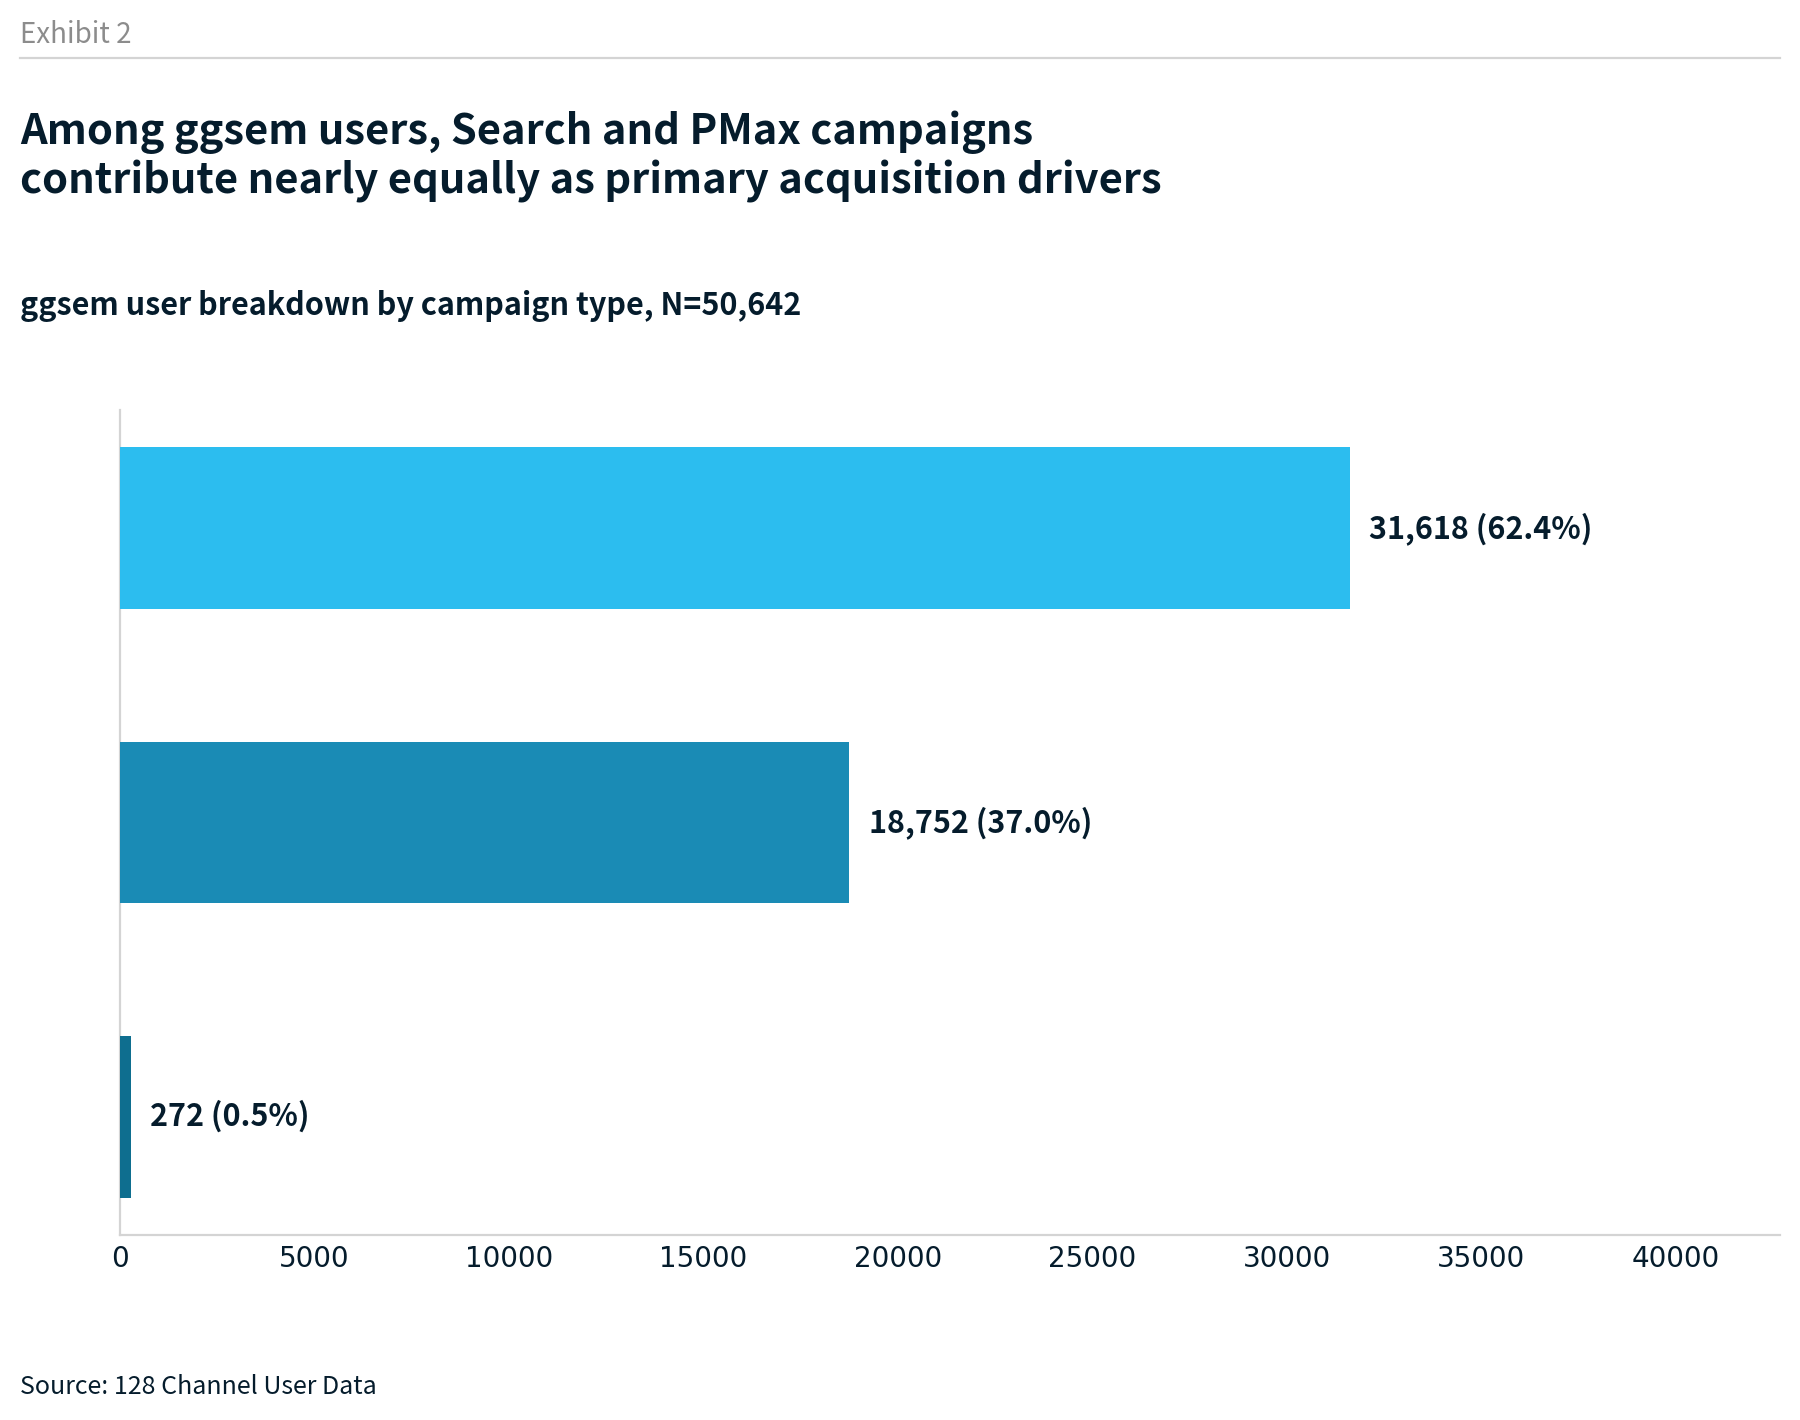
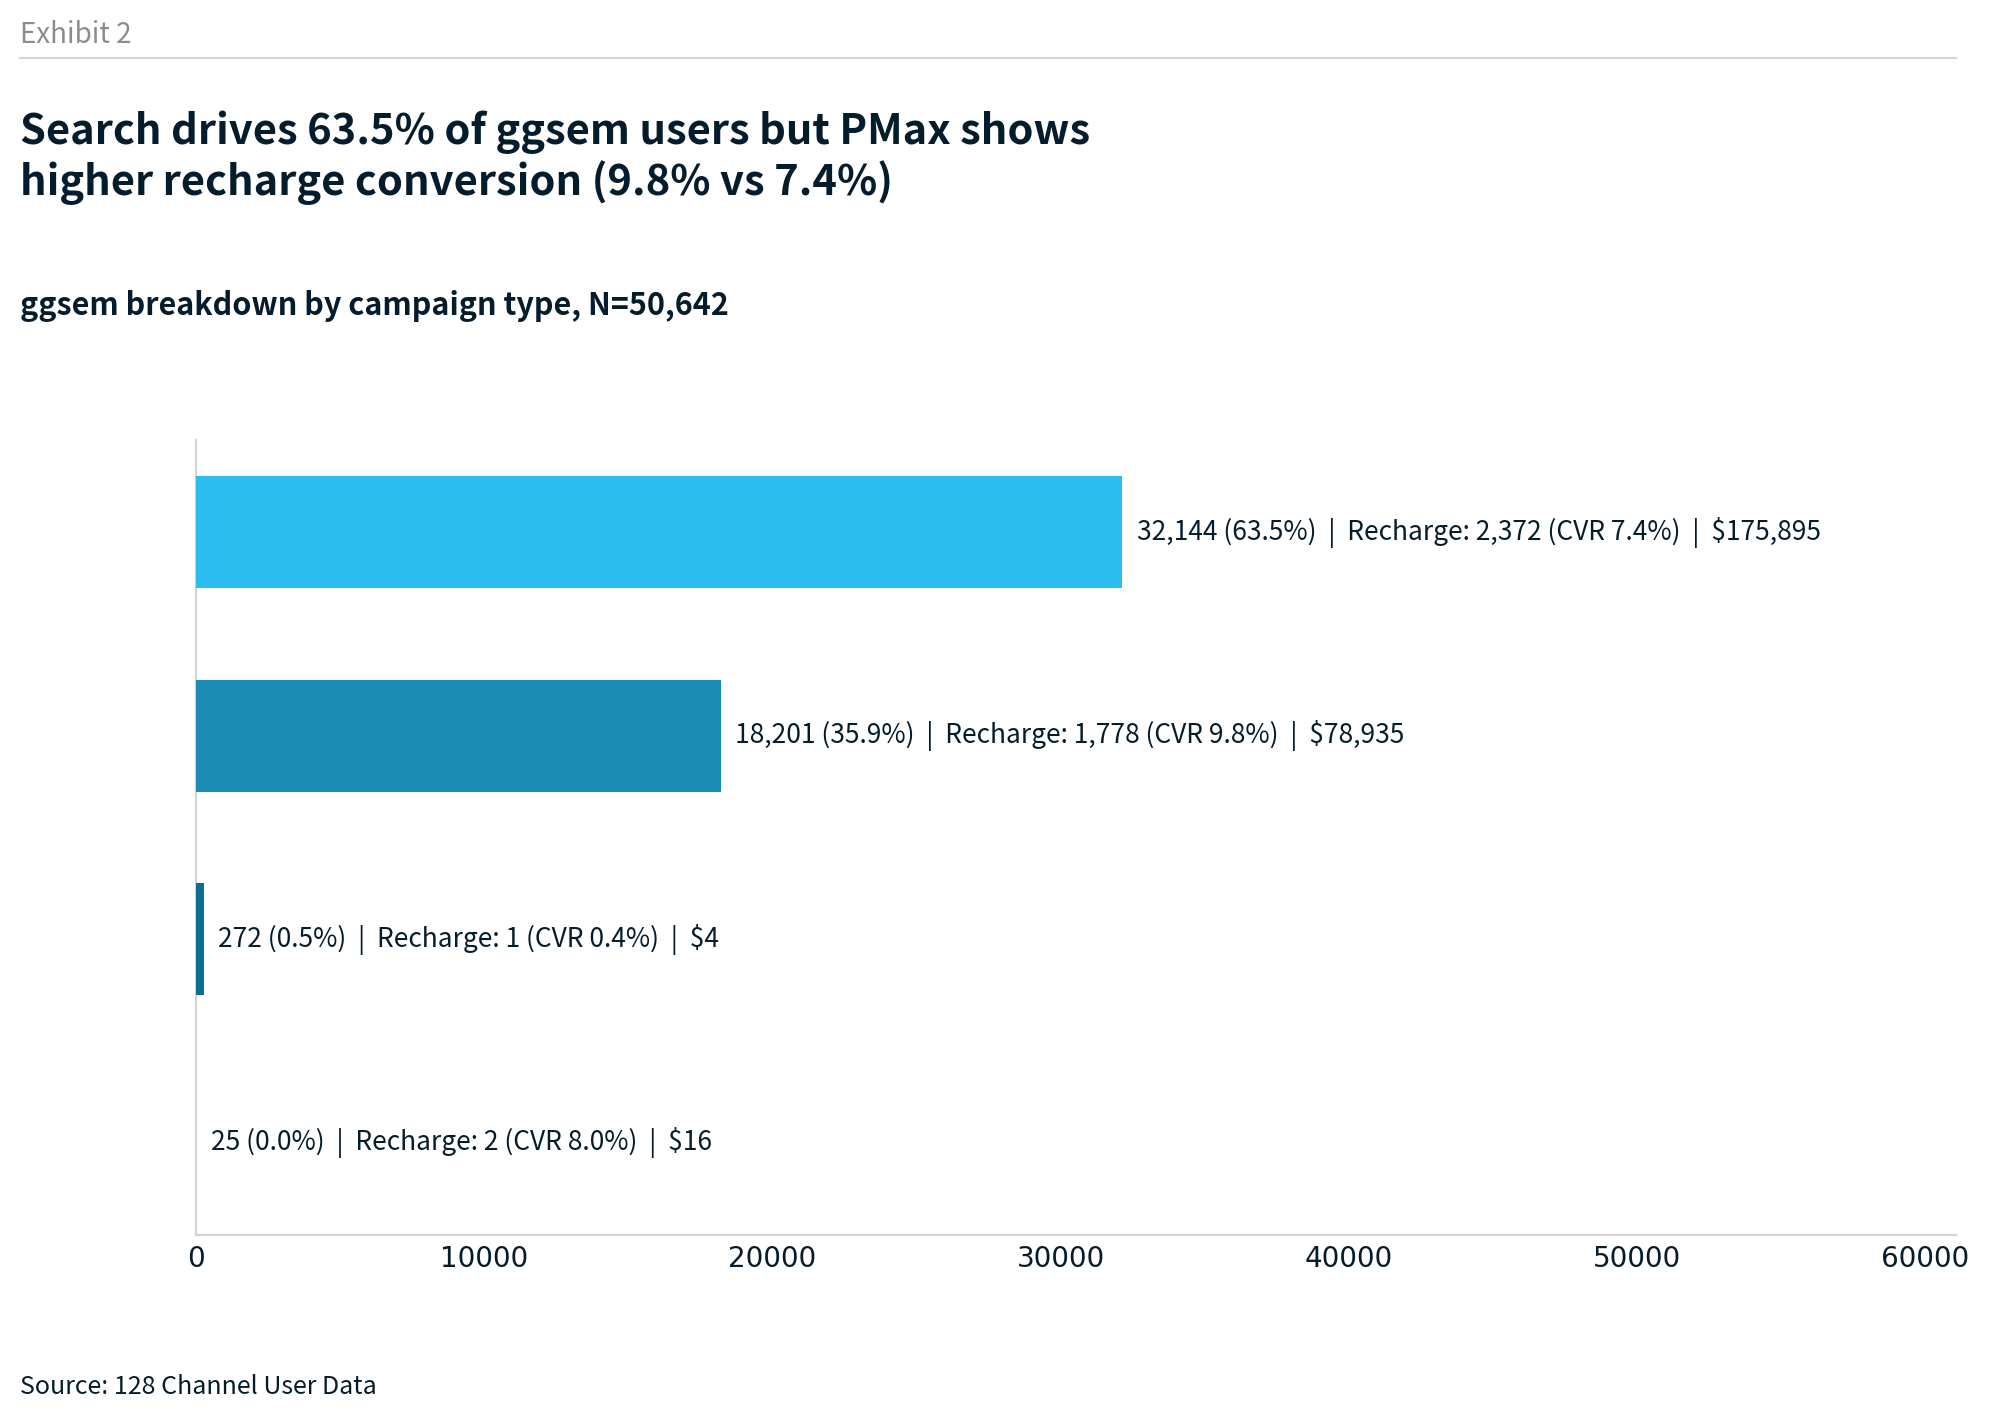
feat: 全面修正 - 精确投放类型分类 + 分渠道月度趋势
- Search 32,144 / PMax 18,201 / Display 272 / PDemand 25
- 新增各投放类型充值人数、转化率、收入
- 新增分渠道(ggsem/no_ytag/other)月度注册趋势图
- 明确充值转化率指标定义
- 新增monthly_registration_by_source.csv

diff --git a/128-channel-analysis/README.md b/128-channel-analysis/README.md
@@ -14,7 +14,7 @@
 | **ggsem (Google Ads)** | **50,642** | **42.6%** | 4,153 | 8.2% | $254,850 |
 | Other ytag（其他渠道） | 4,848 | 4.1% | 1,053 | 21.7% | $272,764 |
 
-> 分类逻辑：综合ytag为0或NaN空值 → No ytag；含ggsem字符 → ggsem；其余 → Other ytag
+> 分类逻辑：综合ytag为0或NaN空值 → No ytag；综合ytag含"ggsem"字符 → ggsem；其余 → Other ytag
 
 **核心发现：**
 - 超过一半用户（53.3%）没有ytag归因标记，建议补全追踪
@@ -23,15 +23,21 @@
 
 ![ytag来源分布](output/01_ytag_source_distribution.png)
 
-### 1.2 ggsem用户中Search vs PMax占比
+### 1.2 ggsem用户中各投放类型占比
 
-| 投放类型 | 用户数 | 占ggsem比例 |
-|---------|--------|------------|
-| **Search** | **31,618** | **62.4%** |
-| PMax | 18,752 | 37.0% |
-| Display | 272 | 0.5% |
+| 投放类型 | 用户数 | 占ggsem比例 | 充值人数 | 充值转化率 | 总收入 |
+|---------|--------|------------|---------|-----------|--------|
+| **Search** | **32,144** | **63.5%** | 2,372 | 7.4% | $175,895 |
+| **PMax** | **18,201** | **35.9%** | 1,778 | 9.8% | $78,935 |
+| Display | 272 | 0.5% | 1 | 0.4% | $4 |
+| PDemand | 25 | 0.05% | 2 | 8.0% | $16 |
 
-**核心发现：** Search广告贡献了ggsem的62.4%用户，是主力获客引擎。PMax占37%，两者合计占ggsem的99.5%。
+> 分类逻辑：按综合ytag中"ggsem_"后的后缀判定投放类型（search/pmax/display/pdemand）
+
+**核心发现：**
+- Search贡献了ggsem的63.5%用户量和69%收入，是主力获客引擎
+- PMax用户量少于Search，但**充值转化率更高**（9.8% vs 7.4%）
+- Display几乎无效：272注册仅1人充值，$4收入
 
 ![ggsem投放类型](output/02_ggsem_campaign_type.png)
 
@@ -39,30 +45,46 @@
 
 ## 二、月注册量趋势
 
-### 关键节点：
-- **2024-09 峰值**：15,248注册（历史最高），对应可能的大规模投放活动
-- **2024-08~12**：高速增长期，月均9,094注册
-- **2025-03**：第二波高峰，9,649注册
-- **2025下半年~2026**：稳定在3,000-4,000/月
+### 2.1 分渠道月注册量趋势
 
-| 月份 | 注册量 | 充值用户 | 转化率 |
-|------|--------|---------|--------|
+ggsem从**2025年1月**起才开始大规模投放，此前注册主要来自No ytag渠道。
+
+| 阶段 | ggsem月均 | No ytag月均 | Other ytag月均 |
+|------|----------|------------|---------------|
+| 2024-01~2024-12 | 11 | 4,165 | 3 |
+| 2025-01~2025-12 | 3,280 | 939 | 303 |
+| 2026-01~2026-04 | 2,237 | 775 | 295 |
+
+> 说明：2024年ggsem几乎为零，No ytag占绝对主体；2025年起ggsem成为主力
+
+![分渠道月注册趋势](output/03_monthly_registration_trend.png)
+
+### 2.2 月度注册-充值趋势
+
+> **指标定义：** "充值人数"指**当月注册的用户中，截至数据提取日（2026-04-21）有过任何充值行为的用户数**。"充值转化率"= 充值人数 / 当月注册量。
+
+| 月份 | 注册量 | 充值人数 | 充值转化率 |
+|------|--------|---------|-----------|
 | 2024-05 | 977 | 306 | 31.3% |
 | 2024-08 | 5,264 | 524 | 10.0% |
 | 2024-09 | 15,248 | 922 | 6.0% |
-| 2024-10 | 7,314 | 925 | 12.6% |
 | 2024-11 | 8,676 | 1,347 | 15.5% |
-| 2024-12 | 8,969 | 1,308 | 14.6% |
 | 2025-01 | 8,238 | 830 | 10.1% |
-| 2025-02 | 6,531 | 856 | 13.1% |
 | 2025-03 | 9,649 | 889 | 9.2% |
 | 2025-05 | 3,308 | 955 | 28.9% |
 | 2026-03 | 3,779 | 638 | 16.9% |
 | 2026-04 | 2,496 | 400 | 16.0% |
 
-> 完整32个月数据见 `output/monthly_registration_data.csv`
+> 完整月度数据见 `output/monthly_registration_data.csv`
+> 分渠道月度数据见 `output/monthly_registration_by_source.csv`
 
-![月注册趋势](output/03_monthly_registration_trend.png)
+**趋势洞察：**
+- 注册量高峰期（2024-09：15,248）充值转化率仅6.0%，量大质低
+- 2025-05转化率达28.9%，注册量不大但质量极高
+- 近期（2026 Q1）转化率稳定在15-17%，表现健康
+- 早期注册用户有更长时间窗口完成充值，因此早期月份转化率天然偏高
+
+![月度注册充值趋势](output/04_registration_vs_recharge_trend.png)
 
 ---
 
@@ -79,23 +101,14 @@
 
 ![注册vs充值](output/05_registration_vs_recharge_bar.png)
 
-### 3.2 月度注册-充值双线趋势
-
-**趋势洞察：**
-- 注册量高峰期（2024-09）的充值转化率仅6.0%，说明量大但质量低
-- 2025-05转化率达28.9%，虽然注册量不大但质量极高
-- 近期（2026 Q1）转化率稳定在15-17%，表现健康
-
-![月度注册充值趋势](output/04_registration_vs_recharge_trend.png)
-
 ---
 
 ## 四、关键词分析
 
 ### 4.1 Top 20关键词（按注册量）
 
-| 关键词 | 注册量 | 充值数 | 转化率 | 总收入 |
-|--------|--------|--------|--------|--------|
+| 关键词 | 注册量 | 充值人数 | 转化率 | 总收入 |
+|--------|--------|---------|--------|--------|
 | display | 19,572 | 879 | 4.5% | $26,620 |
 | pmax | 18,752 | 1,801 | 9.6% | $79,344 |
 | surfercloud | 1,253 | 307 | 24.5% | $40,079 |
@@ -143,10 +156,11 @@
 3. **加大品牌词投入**：surfercloud系列关键词转化率20%+，ARPU高，值得追加预算
 4. **砍掉零转化词**：deepseek相关词带来注册但0充值，建议加入否定关键词
 5. **拓展中文长尾词**：云桌面、云电脑等词转化率10-20%+，可以扩量
+6. **PMax vs Search预算调整**：PMax转化率9.8%高于Search的7.4%，考虑适当增加PMax预算
 
 ### 🟢 长期策略
-6. **重新评估ggsem整体ROI**：ggsem转化率仅8.2%，总收入$254,850；而other ytag 4,848人带来$272,764收入，说明自然渠道性价比远高于付费投放
-7. **激活存量低转化用户**：2024-09高峰期用户转化率仅6%，可针对这批低转化存量做定向激活
+7. **重新评估ggsem整体ROI**：ggsem转化率仅8.2%，总收入$254,850；而Other ytag 4,848人带来$272,764收入，说明自然渠道性价比远高于付费投放
+8. **激活存量低转化用户**：2024-09高峰期用户转化率仅6%，可针对这批低转化存量做定向激活
 
 ---
 
